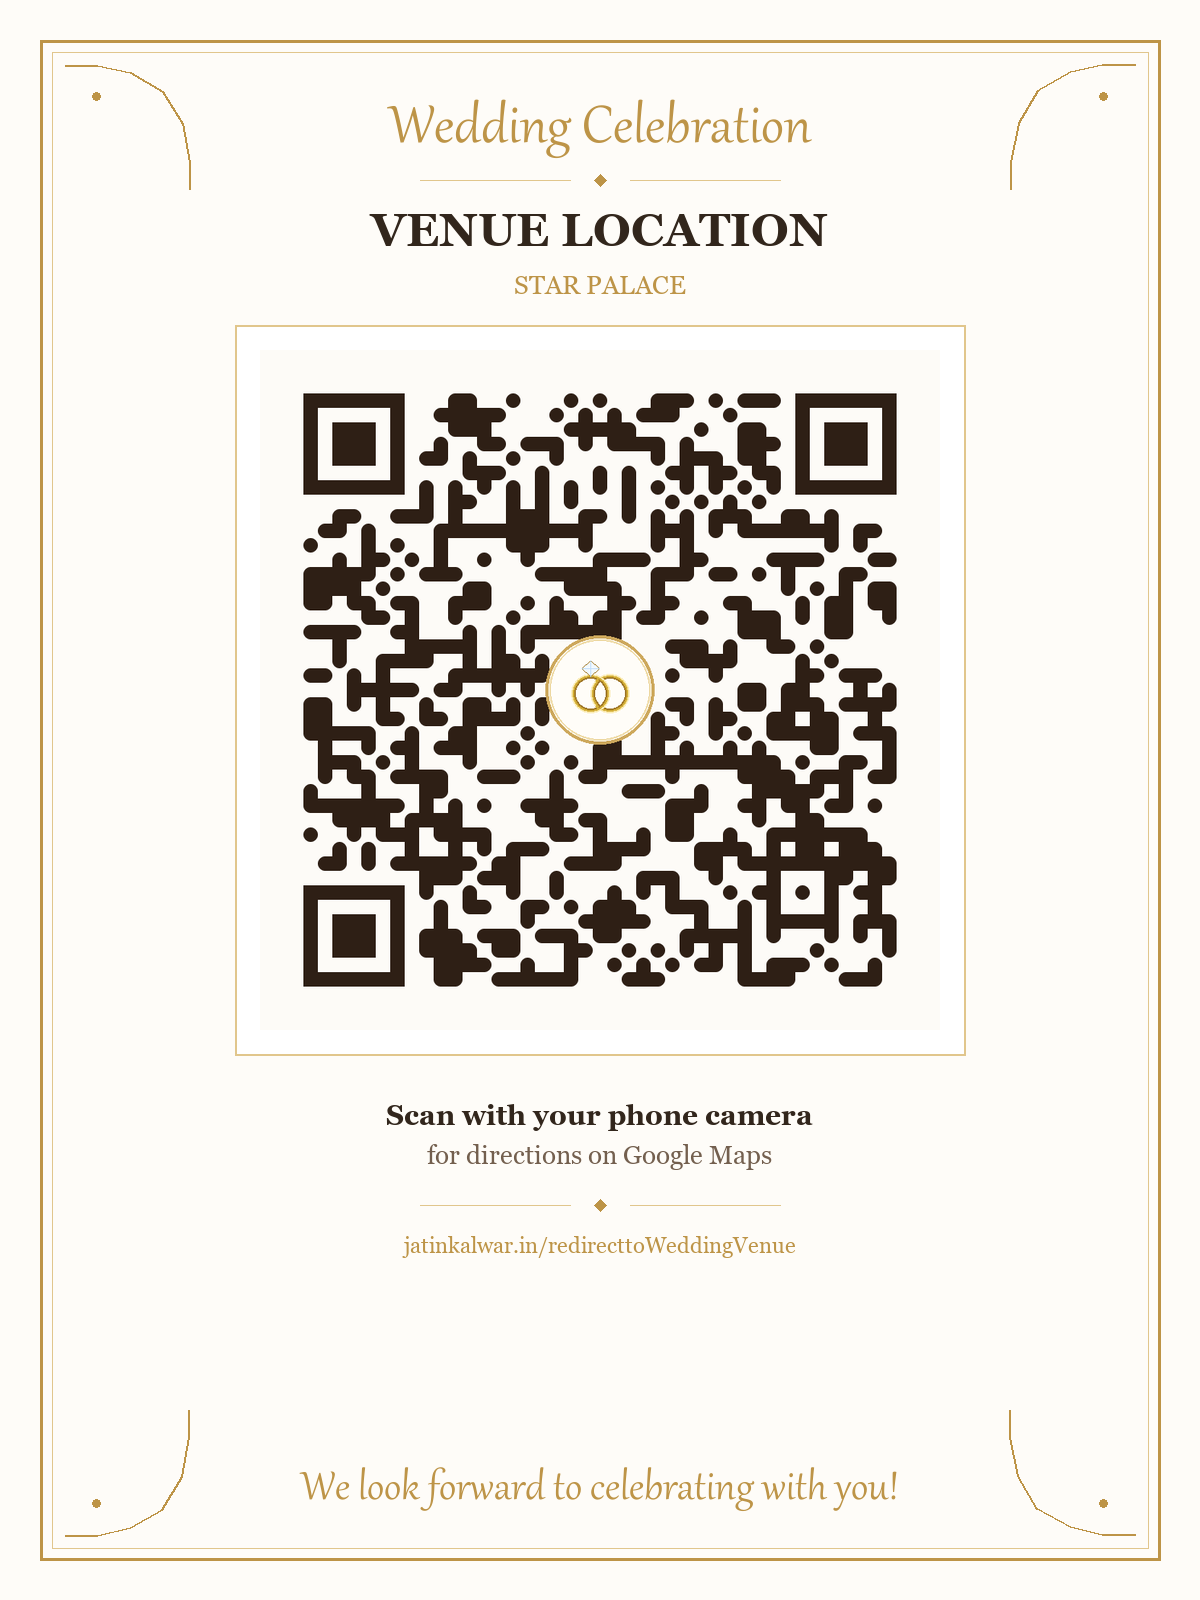
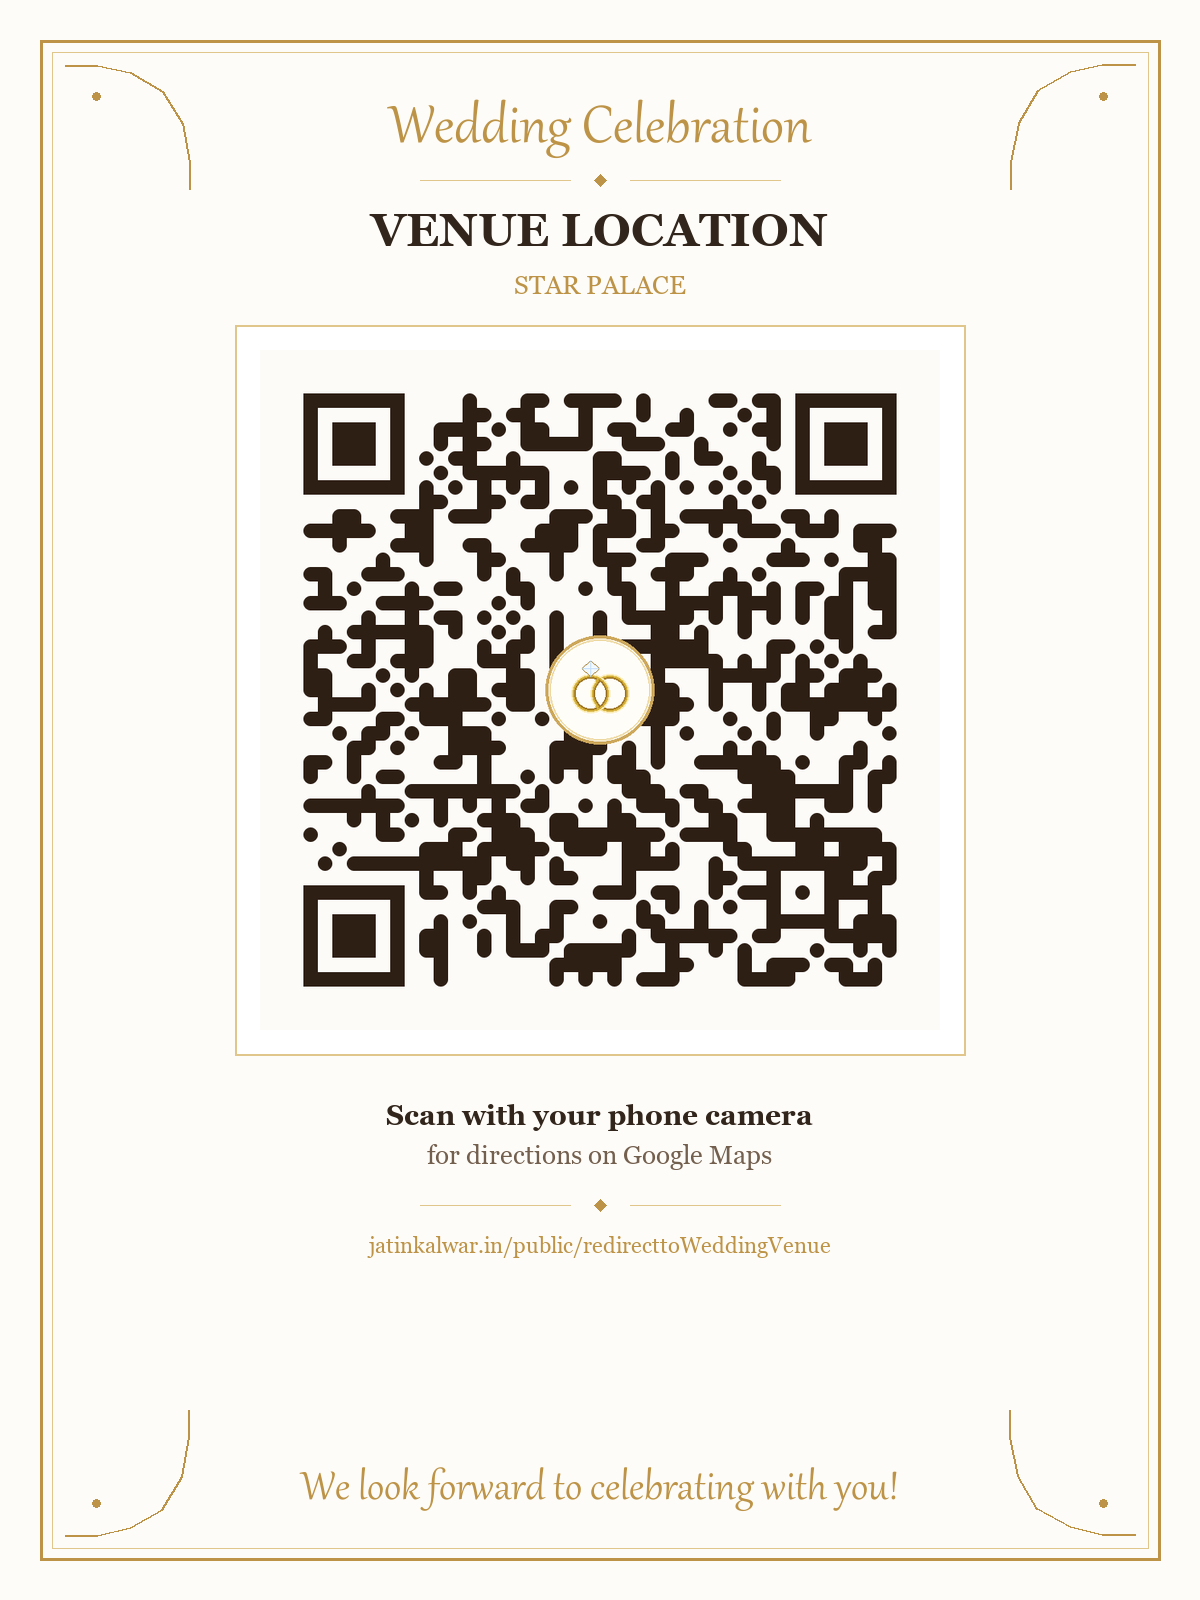
feat: update wedding QR code and invitation card to encode https://jatinkalwar.in/public/redirecttoWeddingVenue

Changed region(s): [[0.2467, 0.2188, 0.74, 0.625], [0.3392, 0.75, 0.6475, 0.7812]]

diff --git a/generate_wedding_qr.py b/generate_wedding_qr.py
@@ -6,7 +6,7 @@ from qrcode.image.styles.moduledrawers import RoundedModuleDrawer
 from qrcode.image.styles.colormasks import SolidFillColorMask
 from PIL import Image, ImageDraw, ImageFont
 
-TARGET_URL = "https://jatinkalwar.in/redirecttoWeddingVenue"
+TARGET_URL = "https://jatinkalwar.in/public/redirecttoWeddingVenue"
 
 def create_wedding_rings_badge(size=150):
     img = Image.new("RGBA", (size, size), (0, 0, 0, 0))
@@ -212,7 +212,7 @@ def generate_invitation_card(qr_img, output_path):
     
     draw_divider(inst_y + 90)
     
-    draw.text((card_w // 2, inst_y + 130), "jatinkalwar.in/redirecttoWeddingVenue", fill=gold_main, font=font_url, anchor="mm")
+    draw.text((card_w // 2, inst_y + 130), "jatinkalwar.in/public/redirecttoWeddingVenue", fill=gold_main, font=font_url, anchor="mm")
     
     draw.text((card_w // 2, card_h - 110), "We look forward to celebrating with you!", fill=gold_main, font=font_footer, anchor="mm")
     
